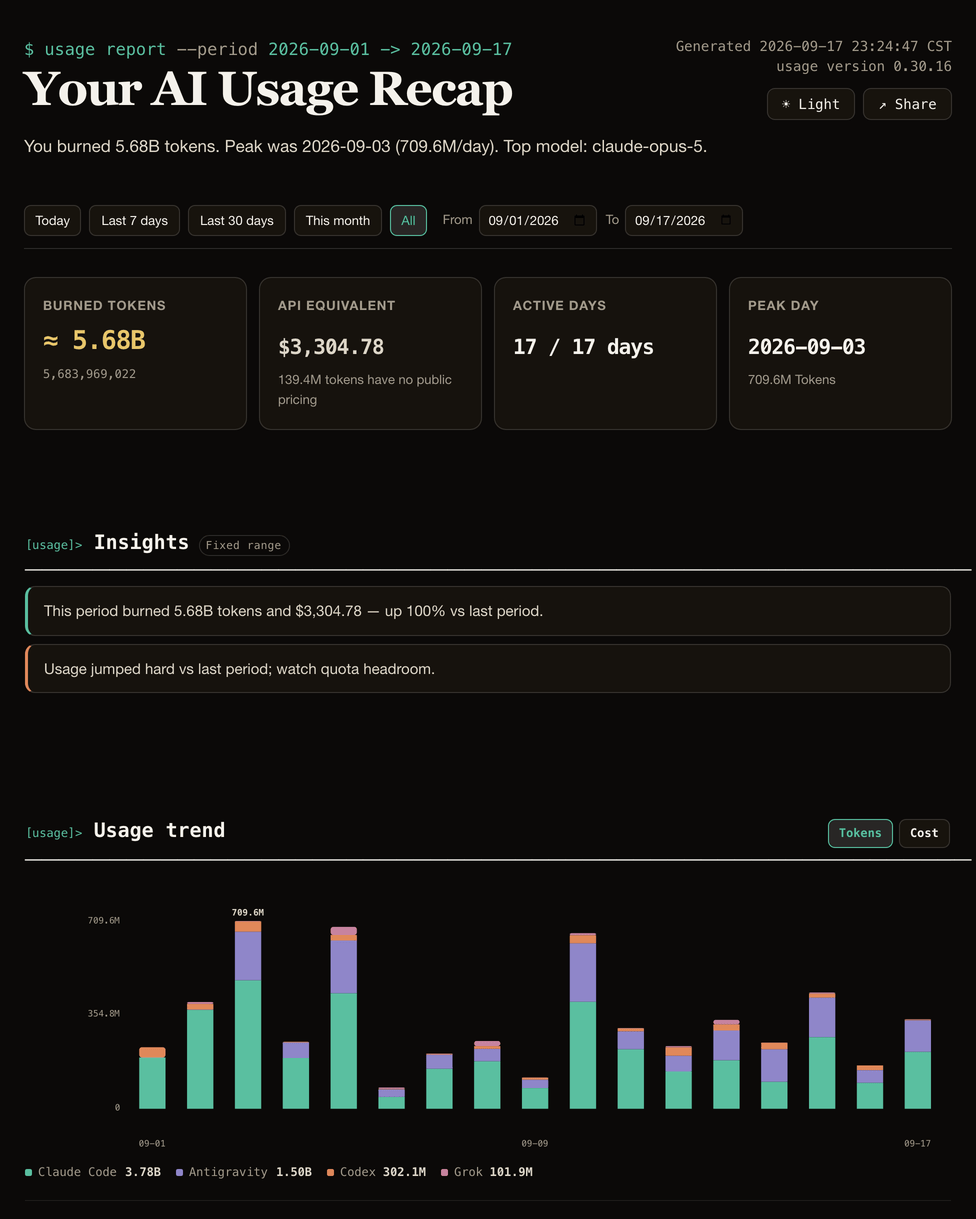
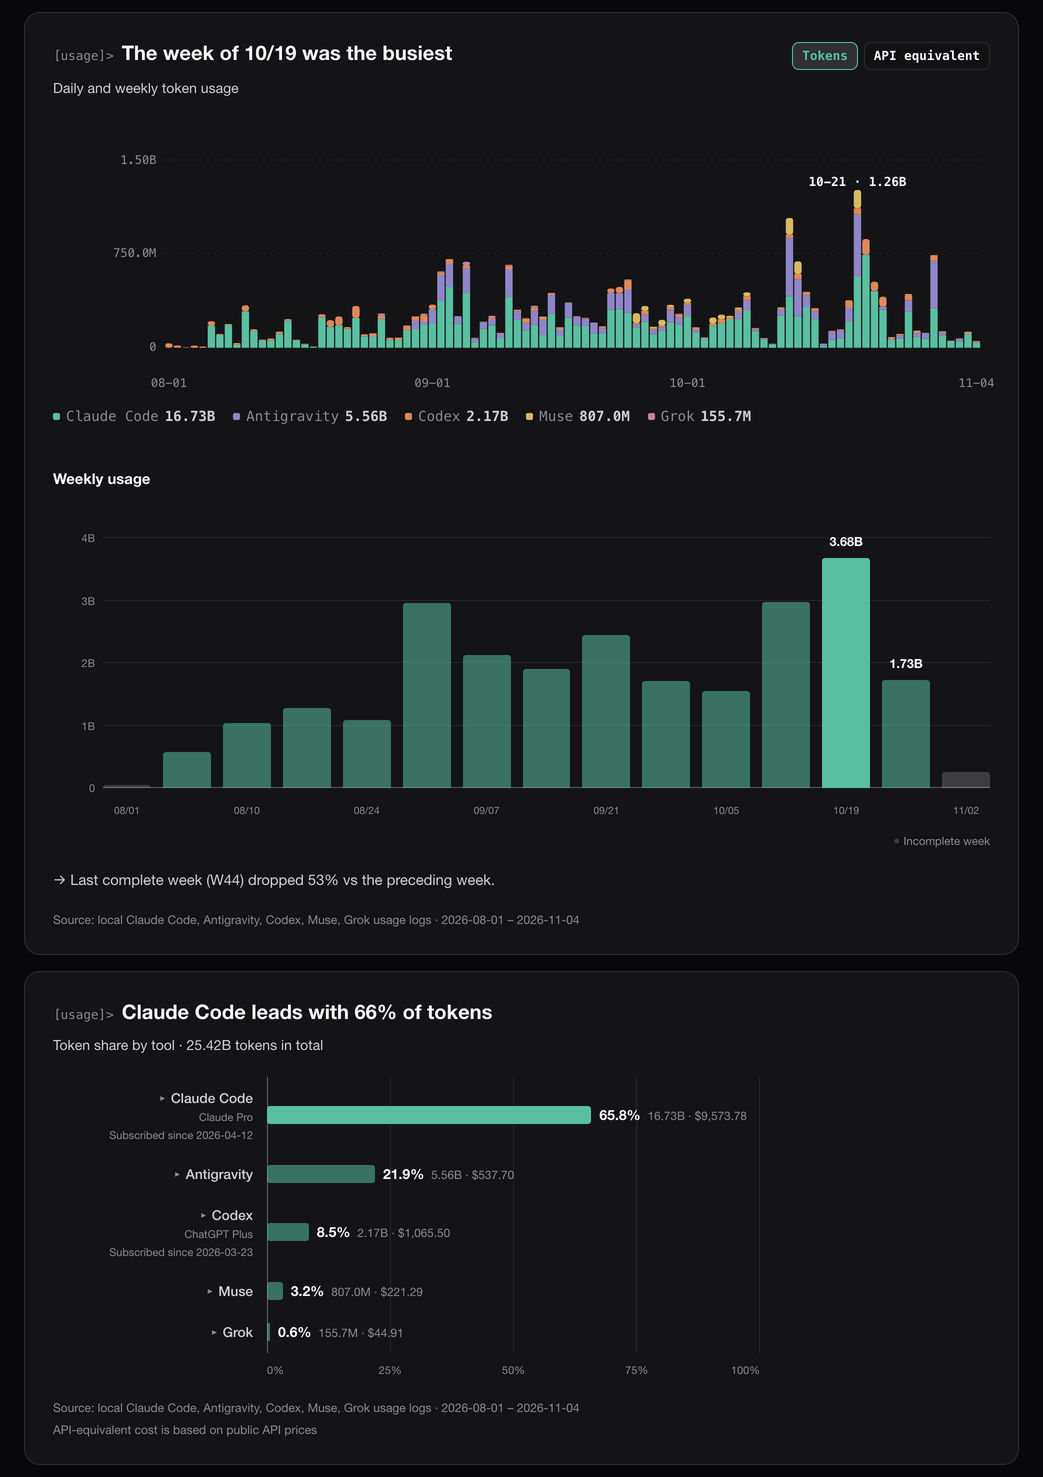
chore(docs): retake the report screenshots after the chart redesign
The site and DEVELOPMENT.md still showed the report before #276. The new
shots frame the two cards that changed most: the usage trend with its
conclusion title and weekly columns, and the tools bars. A header-to-tools
crop was too tall for the site's 410px frame and shrank to a sliver.

Same method as before: real data, 2x render, downscaled to 1x, pngquant to
256 colours. No project names or session titles are in frame. data-size in
docs/index.html updated and the language pages regenerated with
scripts/build_site_pages.py.

diff --git a/docs/ja/index.html b/docs/ja/index.html
@@ -1131,7 +1131,7 @@ footer .kofi:hover { background: var(--accent-hover); }
           <h3 data-i18n="card4_h">ワンクリック HTML レポート</h3>
           <p data-i18n="card4_p">今日・週・月・全期間で、トークン / コスト推移、トッププロジェクト、モデル分布を含む共有可能な HTML レポートを生成。プロジェクト名はデフォルトで非表示。</p>
         </div>
-        <div class="chess-media m-report"><img width="976" height="1219" loading="lazy" decoding="async" data-shot data-size-en="976x1219" data-size-cjk="995x1219" src="../report.en.png" data-img-en="../report.en.png" data-img-cjk="../report.png" data-i18n-attr="alt:report_alt" alt="HTML 使用量レポート" /></div>
+        <div class="chess-media m-report"><img width="1043" height="1477" loading="lazy" decoding="async" data-shot data-size-en="1043x1477" data-size-cjk="1043x1442" src="../report.en.png" data-img-en="../report.en.png" data-img-cjk="../report.png" data-i18n-attr="alt:report_alt" alt="HTML 使用量レポート" /></div>
       </div>
       <div class="chess-row bento-item">
         <div class="chess-txt">

diff --git a/docs/ko/index.html b/docs/ko/index.html
@@ -1131,7 +1131,7 @@ footer .kofi:hover { background: var(--accent-hover); }
           <h3 data-i18n="card4_h">원클릭 HTML 보고서</h3>
           <p data-i18n="card4_p">오늘, 주간, 월간, 전체 기간 — 토큰/비용 추세, 상위 프로젝트, 모델 분포가 포함된 공유 가능한 HTML 보고서. 프로젝트 이름은 기본 숨김 처리됩니다.</p>
         </div>
-        <div class="chess-media m-report"><img width="976" height="1219" loading="lazy" decoding="async" data-shot data-size-en="976x1219" data-size-cjk="995x1219" src="../report.en.png" data-img-en="../report.en.png" data-img-cjk="../report.png" data-i18n-attr="alt:report_alt" alt="HTML 사용량 리포트" /></div>
+        <div class="chess-media m-report"><img width="1043" height="1477" loading="lazy" decoding="async" data-shot data-size-en="1043x1477" data-size-cjk="1043x1442" src="../report.en.png" data-img-en="../report.en.png" data-img-cjk="../report.png" data-i18n-attr="alt:report_alt" alt="HTML 사용량 리포트" /></div>
       </div>
       <div class="chess-row bento-item">
         <div class="chess-txt">

diff --git a/docs/zh-TW/index.html b/docs/zh-TW/index.html
@@ -1131,7 +1131,7 @@ footer .kofi:hover { background: var(--accent-hover); }
           <h3 data-i18n="card4_h">一鍵 HTML 報告</h3>
           <p data-i18n="card4_p">今日、本週、本月或全部——產出可分享的 HTML 報告，內含 token / 成本走勢、各專案排行與模型分布。預設隱藏專案名稱，安全分享給客戶。</p>
         </div>
-        <div class="chess-media m-report"><img width="995" height="1219" loading="lazy" decoding="async" data-shot data-size-en="976x1219" data-size-cjk="995x1219" src="../report.png" data-img-en="../report.en.png" data-img-cjk="../report.png" data-i18n-attr="alt:report_alt" alt="HTML 用量報告" /></div>
+        <div class="chess-media m-report"><img width="1043" height="1442" loading="lazy" decoding="async" data-shot data-size-en="1043x1477" data-size-cjk="1043x1442" src="../report.png" data-img-en="../report.en.png" data-img-cjk="../report.png" data-i18n-attr="alt:report_alt" alt="HTML 用量報告" /></div>
       </div>
       <div class="chess-row bento-item">
         <div class="chess-txt">

diff --git a/docs/zh-CN/index.html b/docs/zh-CN/index.html
@@ -1131,7 +1131,7 @@ footer .kofi:hover { background: var(--accent-hover); }
           <h3 data-i18n="card4_h">一键 HTML 报告</h3>
           <p data-i18n="card4_p">今日、本周、本月或全部——生成可分享的 HTML 报告，内含 token / 花费趋势、项目排行与模型分布。默认隐藏项目名称，安全分享给客户。</p>
         </div>
-        <div class="chess-media m-report"><img width="995" height="1219" loading="lazy" decoding="async" data-shot data-size-en="976x1219" data-size-cjk="995x1219" src="../report.png" data-img-en="../report.en.png" data-img-cjk="../report.png" data-i18n-attr="alt:report_alt" alt="HTML 用量报告" /></div>
+        <div class="chess-media m-report"><img width="1043" height="1442" loading="lazy" decoding="async" data-shot data-size-en="1043x1477" data-size-cjk="1043x1442" src="../report.png" data-img-en="../report.en.png" data-img-cjk="../report.png" data-i18n-attr="alt:report_alt" alt="HTML 用量报告" /></div>
       </div>
       <div class="chess-row bento-item">
         <div class="chess-txt">

diff --git a/docs/index.html b/docs/index.html
@@ -1130,7 +1130,7 @@ footer .kofi:hover { background: var(--accent-hover); }
           <h3 data-i18n="card4_h">One-click HTML reports</h3>
           <p data-i18n="card4_p">Today, week, month, or all-time: get a shareable HTML report with token / cost trends, top projects, and model breakdown. Project names hide by default for client-safe sharing.</p>
         </div>
-        <div class="chess-media m-report"><img width="976" height="1219" loading="lazy" decoding="async" data-shot data-size-en="976x1219" data-size-cjk="995x1219" src="report.en.png" data-img-en="report.en.png" data-img-cjk="report.png" data-i18n-attr="alt:report_alt" alt="HTML usage report" /></div>
+        <div class="chess-media m-report"><img width="1043" height="1477" loading="lazy" decoding="async" data-shot data-size-en="1043x1477" data-size-cjk="1043x1442" src="report.en.png" data-img-en="report.en.png" data-img-cjk="report.png" data-i18n-attr="alt:report_alt" alt="HTML usage report" /></div>
       </div>
       <div class="chess-row bento-item">
         <div class="chess-txt">
